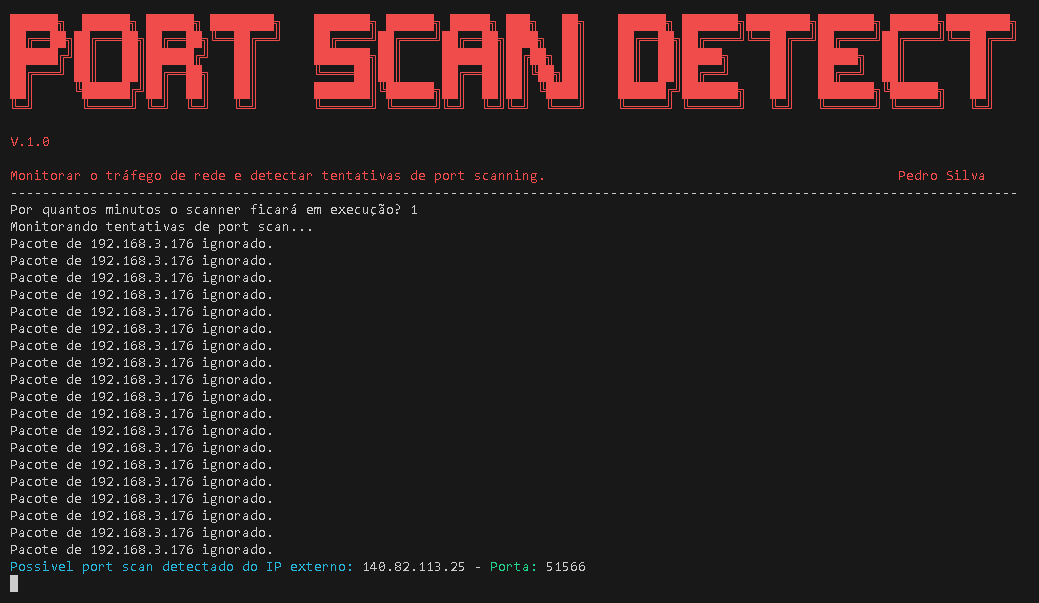
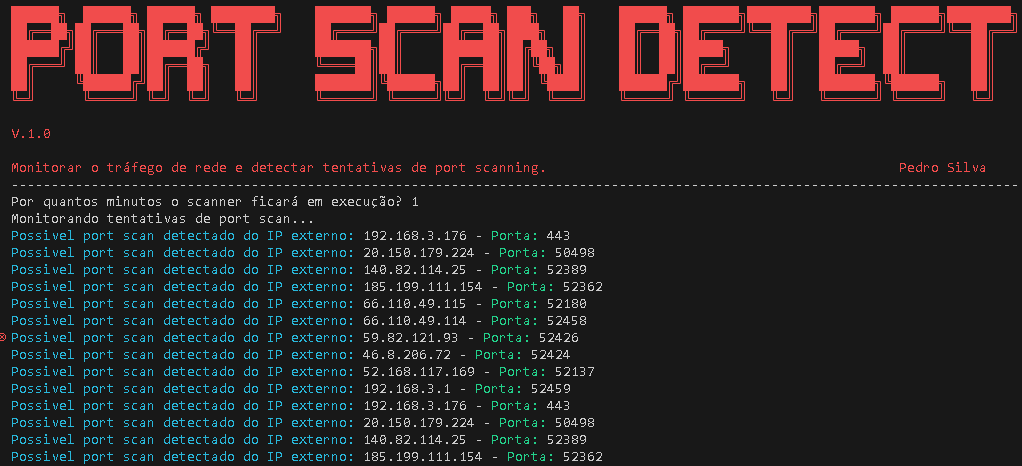
Atualização de projeto

diff --git a/my-app/portscan.py b/my-app/portscan.py
@@ -50,7 +50,7 @@ TIME_WINDOW = 10 # segundos
 THRESHOLD = 10   # número de portas diferentes em um curto período
 
 # Lista de IPs a serem ignorados
-ips_ignorados = ['192.168.3.176']
+ips_ignorados = []
 
 # Configura o arquivo de log
 logging.basicConfig(filename='port_scan_logs.txt', level=logging.INFO, format='%(asctime)s - %(message)s')
@@ -102,7 +102,7 @@ def detect_port_scan(pkt):
 
                         print(log_message_termnal)
                         logging.info(log_message)
-                        enviar_email_alerta(src_ip, [port for port, t in scan_attempts[src_ip]])  # Envia alerta por e-mail
+                        # enviar_email_alerta(src_ip, [port for port, t in scan_attempts[src_ip]])  # Envia alerta por e-mail
 
 # Função para enviar o e-mail de alerta
 def enviar_email_alerta(ip_suspeito, portas):
